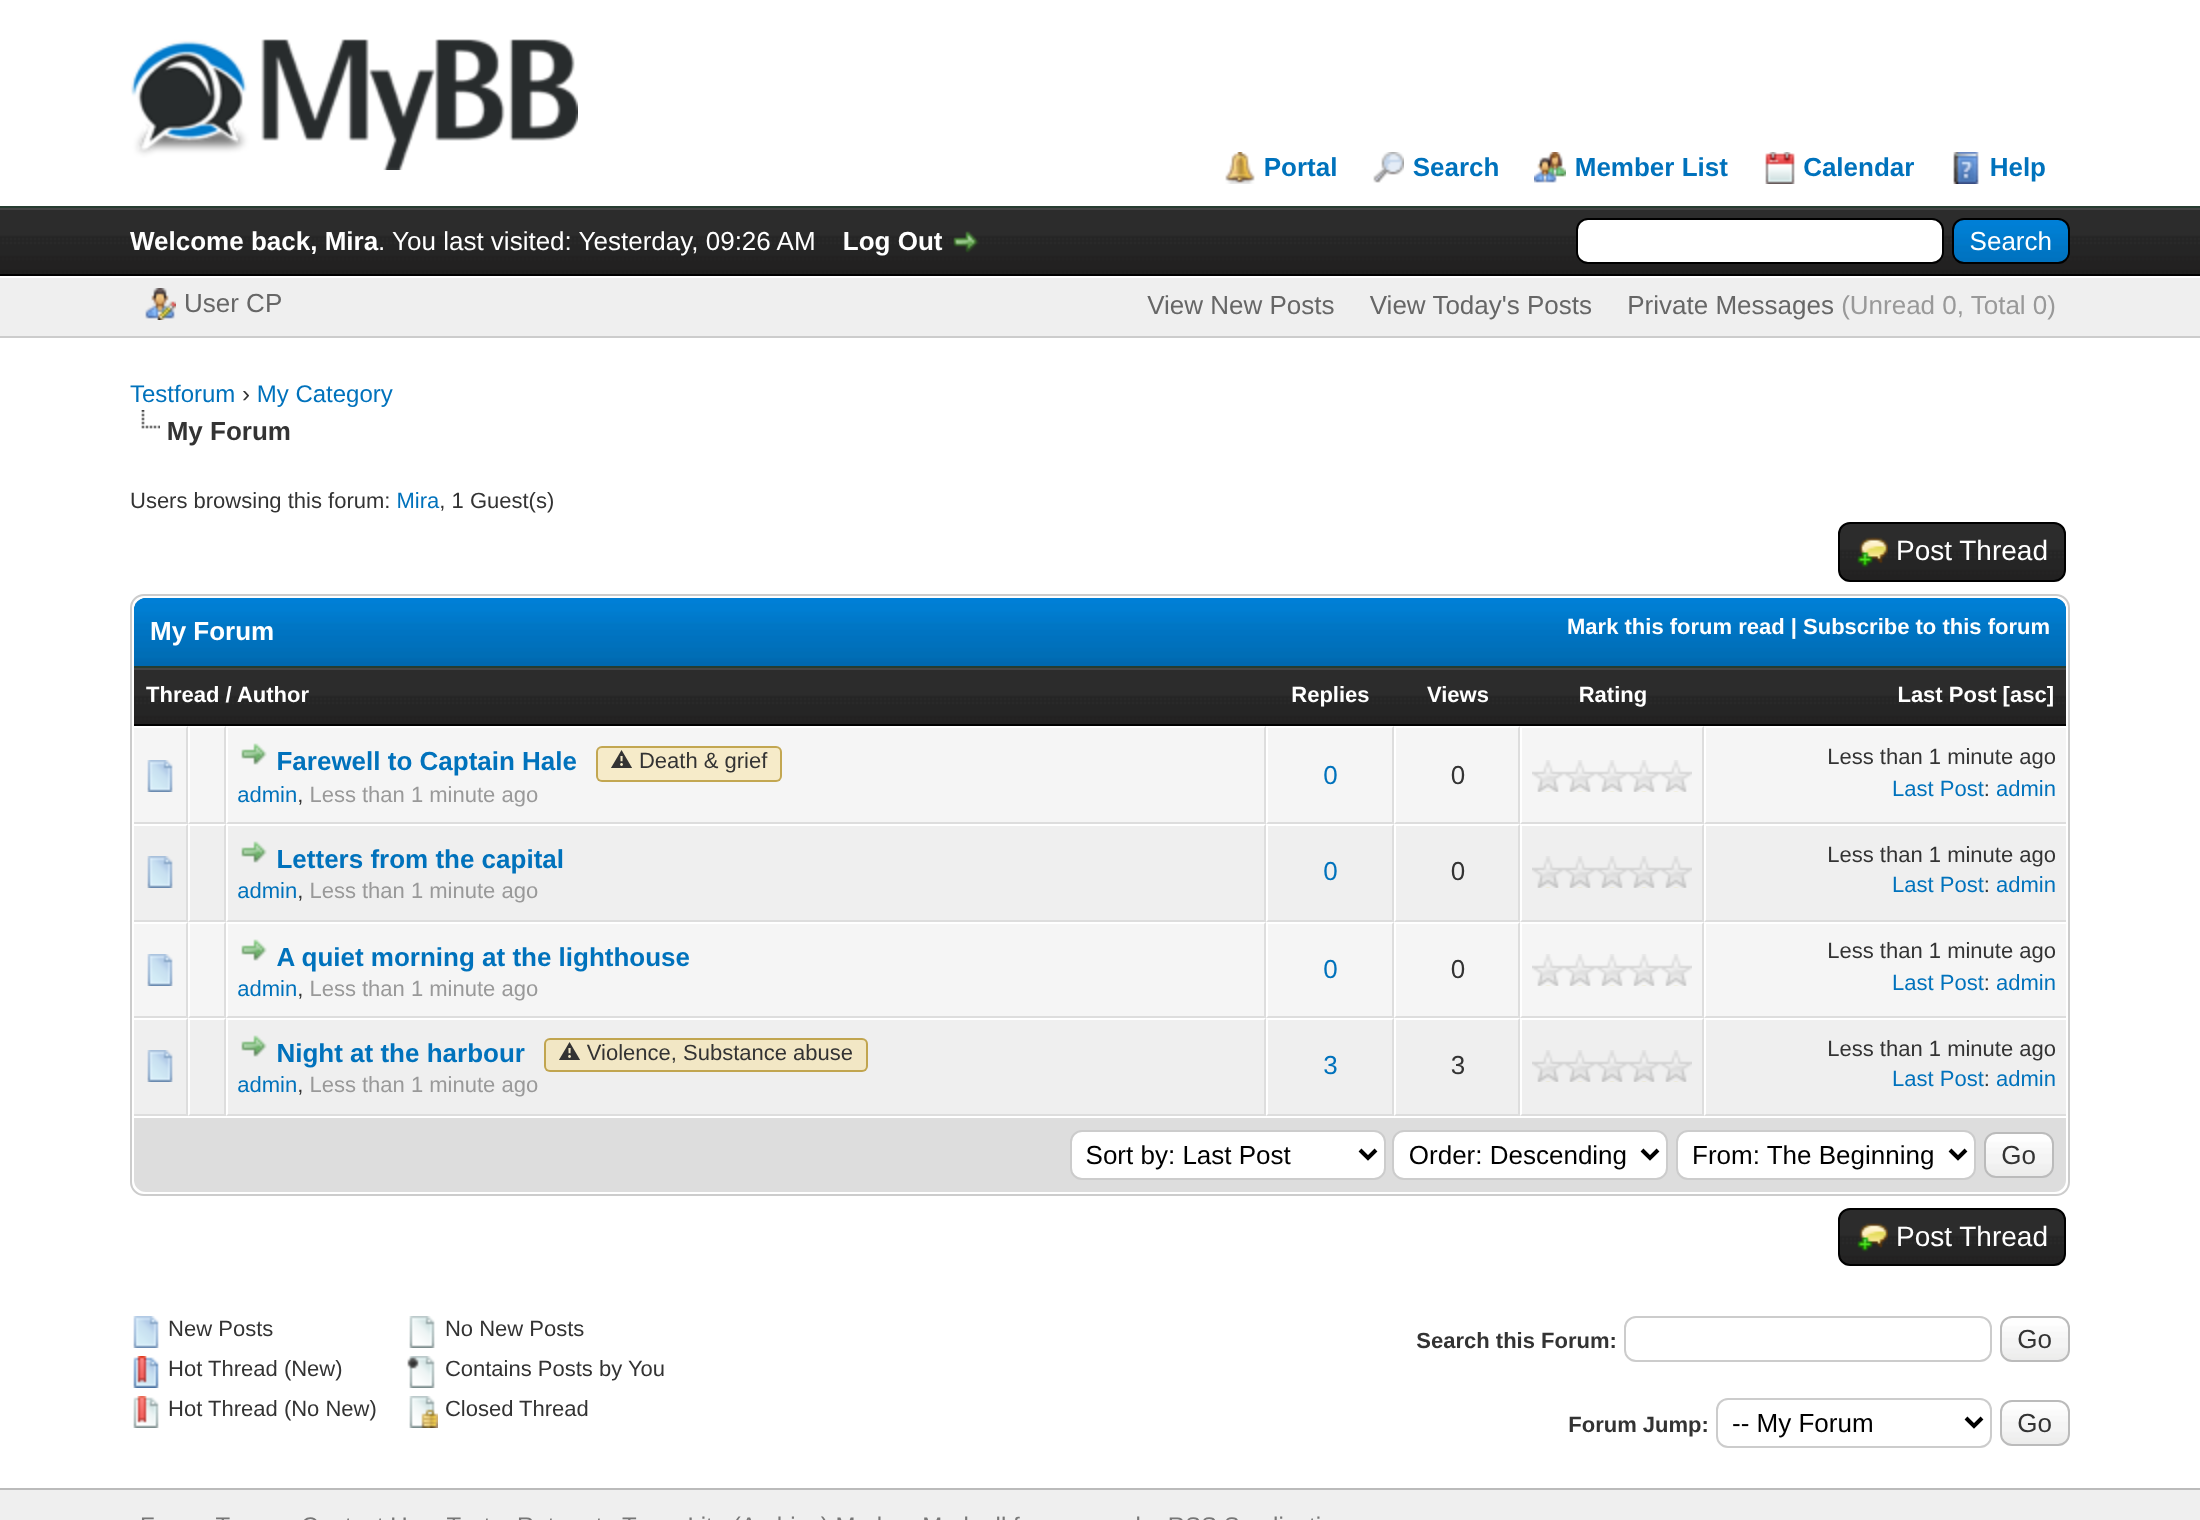
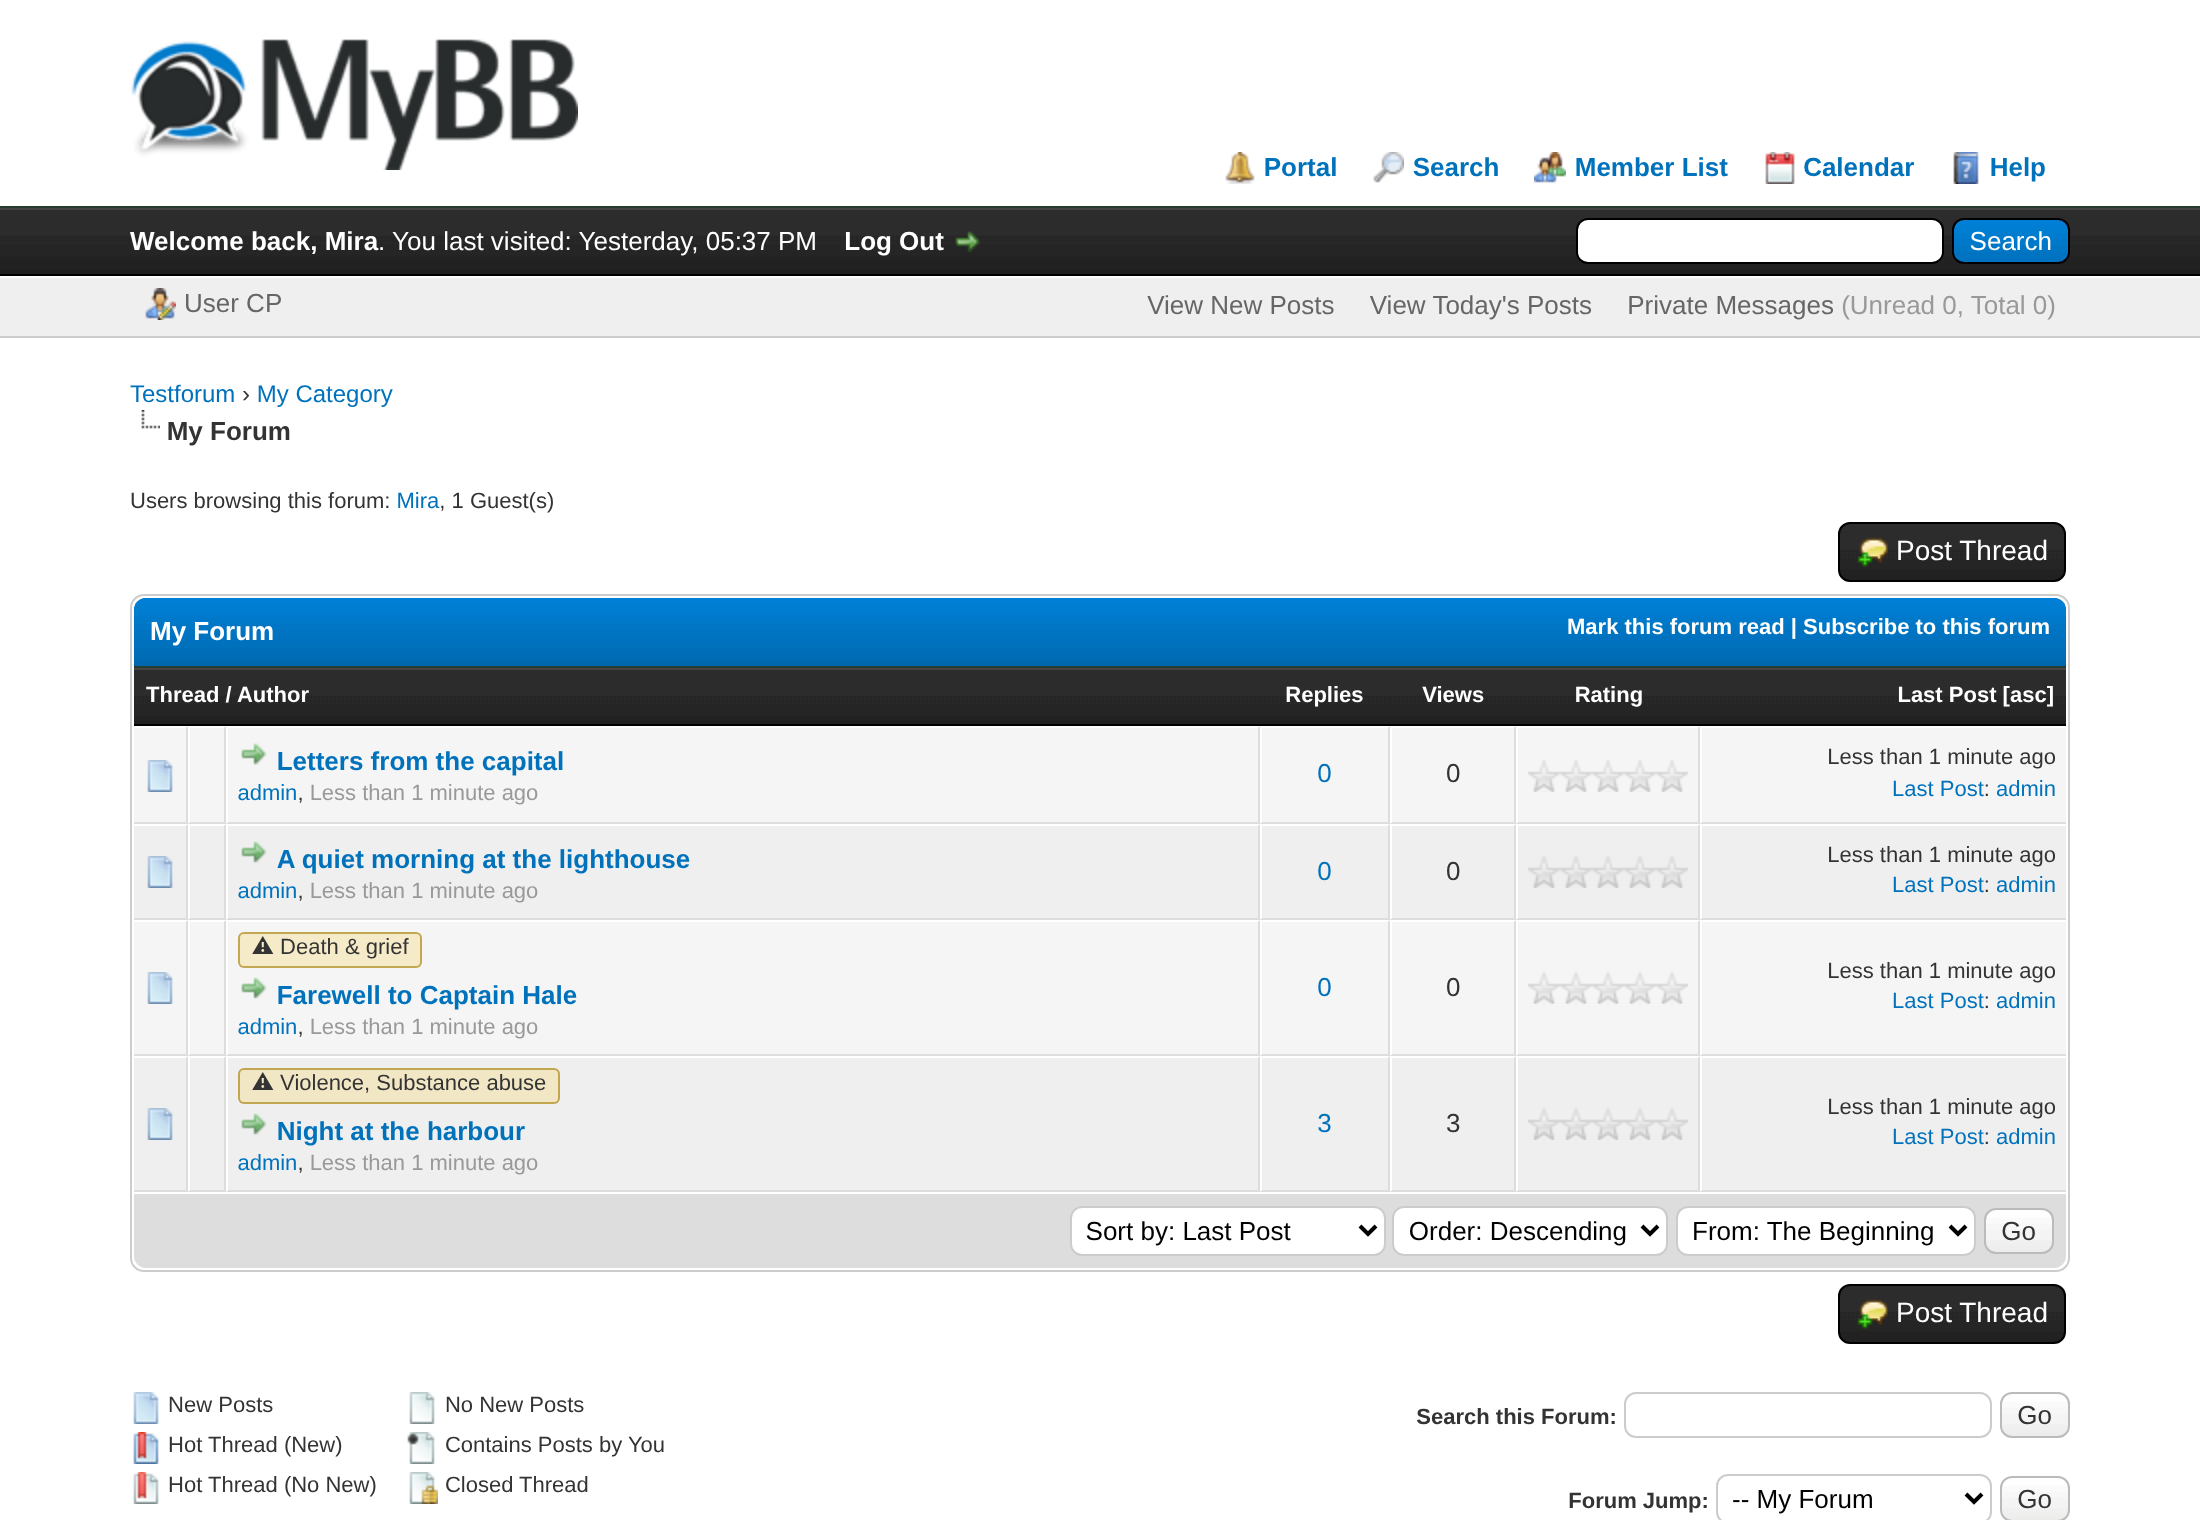
Thread list and search: show the content note label in its own line before the title (with cleanup of the old injection)

diff --git a/inc/plugins/contentnotes/assets/contentnotes.css b/inc/plugins/contentnotes/assets/contentnotes.css
@@ -1,14 +1,19 @@
 /* Content Notes */
 
 /* Badge in Forenansicht / Suche */
+/* Label in der Threadliste: eigene Zeile vor dem Titel */
+.contentnotes_badge_row {
+	margin-bottom: 2px;
+}
+
 .contentnotes_badge {
 	display: inline-block;
-	margin-left: 6px;
+	max-width: 100%;
 	padding: 0 6px;
 	border: 1px solid rgba(160, 120, 0, 0.6);
 	border-radius: 3px;
 	background: rgba(255, 193, 7, 0.18);
-	white-space: nowrap;
+	box-sizing: border-box;
 	vertical-align: middle;
 }
 

diff --git a/inc/plugins/contentnotes.php b/inc/plugins/contentnotes.php
@@ -256,9 +256,23 @@ function contentnotes_template_injections(): array
         ['editpost', '{$posticons}', '{$posticons}{$contentnotes_form}'],
         ['showthread_quickreply', '{$captcha}', '{$contentnotes_quickreply}{$captcha}'],
         ['showthread', '<div id="posts">', '{$contentnotes_thread_banner}<div id="posts"{$contentnotes_posts_attr}>'],
+        ['forumdisplay_thread', '<span>{$prefix} {$gotounread}', '{$thread[\'contentnotes_badge\']}<span>{$prefix} {$gotounread}'],
+        ['search_results_threads_thread', '<span>{$prefix} {$gotounread}', '{$thread[\'contentnotes_badge\']}<span>{$prefix} {$gotounread}'],
+        ['usercp_nav_misc', contentnotes_usercp_nav_anchor(), contentnotes_usercp_nav_anchor() . contentnotes_usercp_nav_row()],
+    ];
+}
+
+/**
+ * Frühere Injektionen (Label hinter dem Threadtitel, 1.0.0/1.1.0 bis zur Umstellung): werden beim
+ * Zurückbauen mit entfernt, damit nach einem Update nichts doppelt im Template steht.
+ *
+ * @return array
+ */
+function contentnotes_legacy_template_injections(): array
+{
+    return [
         ['forumdisplay_thread', '{$thread[\'multipage\']}', '{$thread[\'contentnotes_badge\']}{$thread[\'multipage\']}'],
         ['search_results_threads_thread', '{$thread[\'multipage\']}', '{$thread[\'contentnotes_badge\']}{$thread[\'multipage\']}'],
-        ['usercp_nav_misc', contentnotes_usercp_nav_anchor(), contentnotes_usercp_nav_anchor() . contentnotes_usercp_nav_row()],
     ];
 }
 
@@ -289,7 +303,7 @@ function contentnotes_uninstall_template_injections(): void
 {
     require_once MYBB_ROOT . 'inc/adminfunctions_templates.php';
 
-    foreach (contentnotes_template_injections() as $injection) {
+    foreach (array_merge(contentnotes_template_injections(), contentnotes_legacy_template_injections()) as $injection) {
         list($title, $find, $replace) = $injection;
         // Autocreate aus: es werden nur bereits veränderte Templates zurückgebaut.
         find_replace_templatesets($title, '#' . preg_quote($replace, '#') . '#', $find, 0);

diff --git a/CHANGELOG.md b/CHANGELOG.md
@@ -14,6 +14,9 @@ All notable changes to this project are documented in this file. The format is b
 
 ### Changed
 - Upgrade path: activating the plugin adds the new column `require_note` to existing installations; data is kept.
+- Thread list and search results: the content note label now sits **in its own line before the thread title** instead of behind it, so
+  titles and page links no longer shift. The old template injection is removed automatically on re-activation.
+- ACP category list: edit/(de)activate/delete in the native options popup menu.
 
 ## [1.0.0] - 2026-11-06
 
